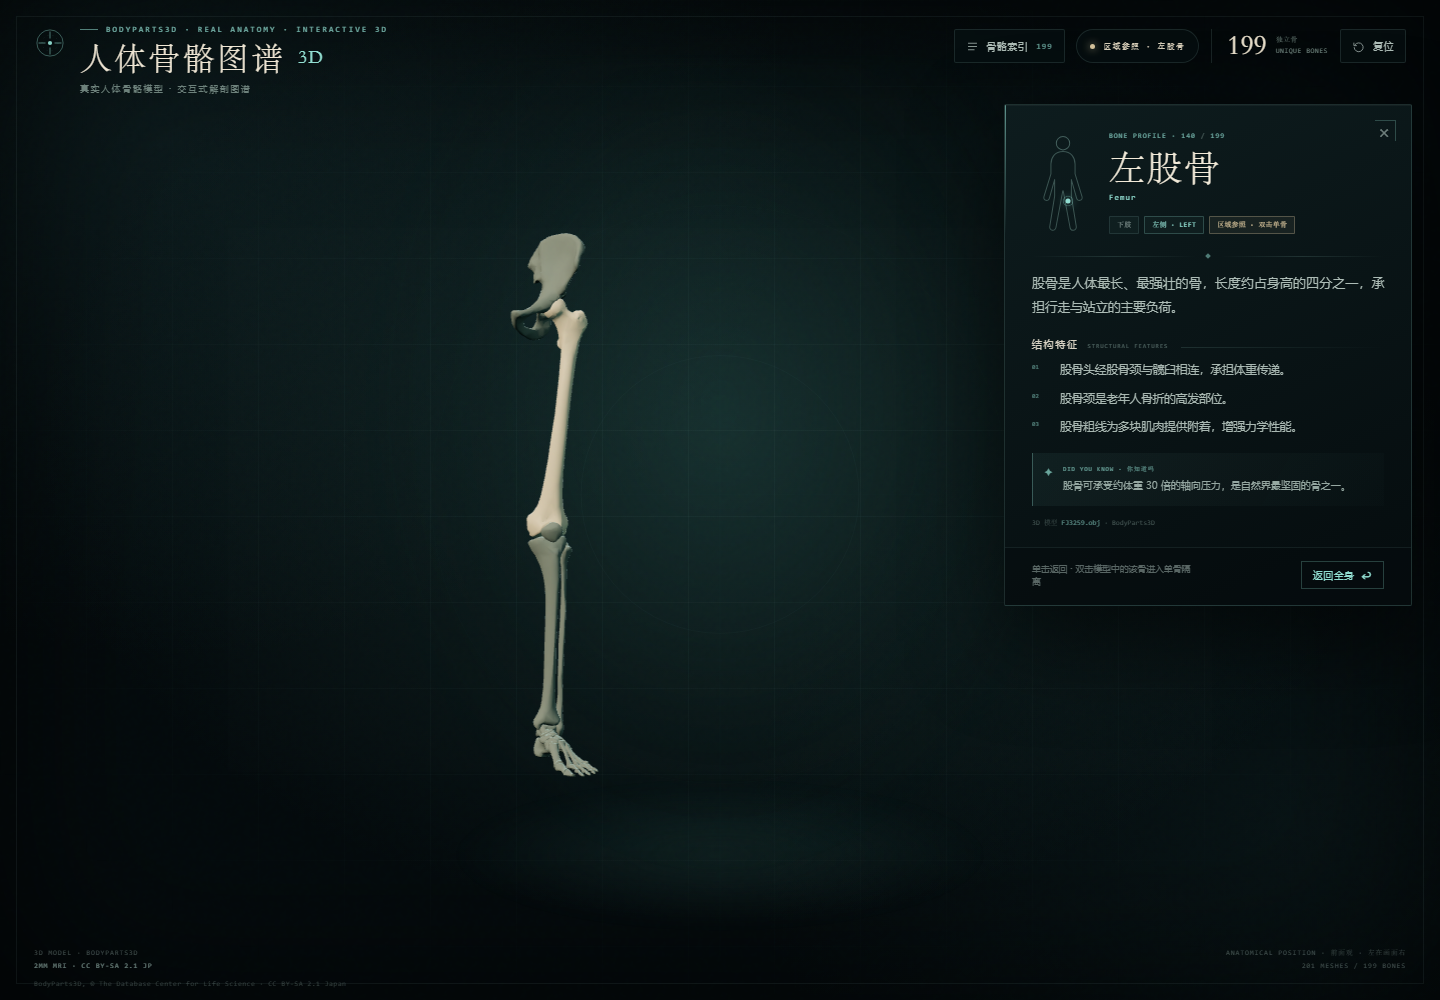
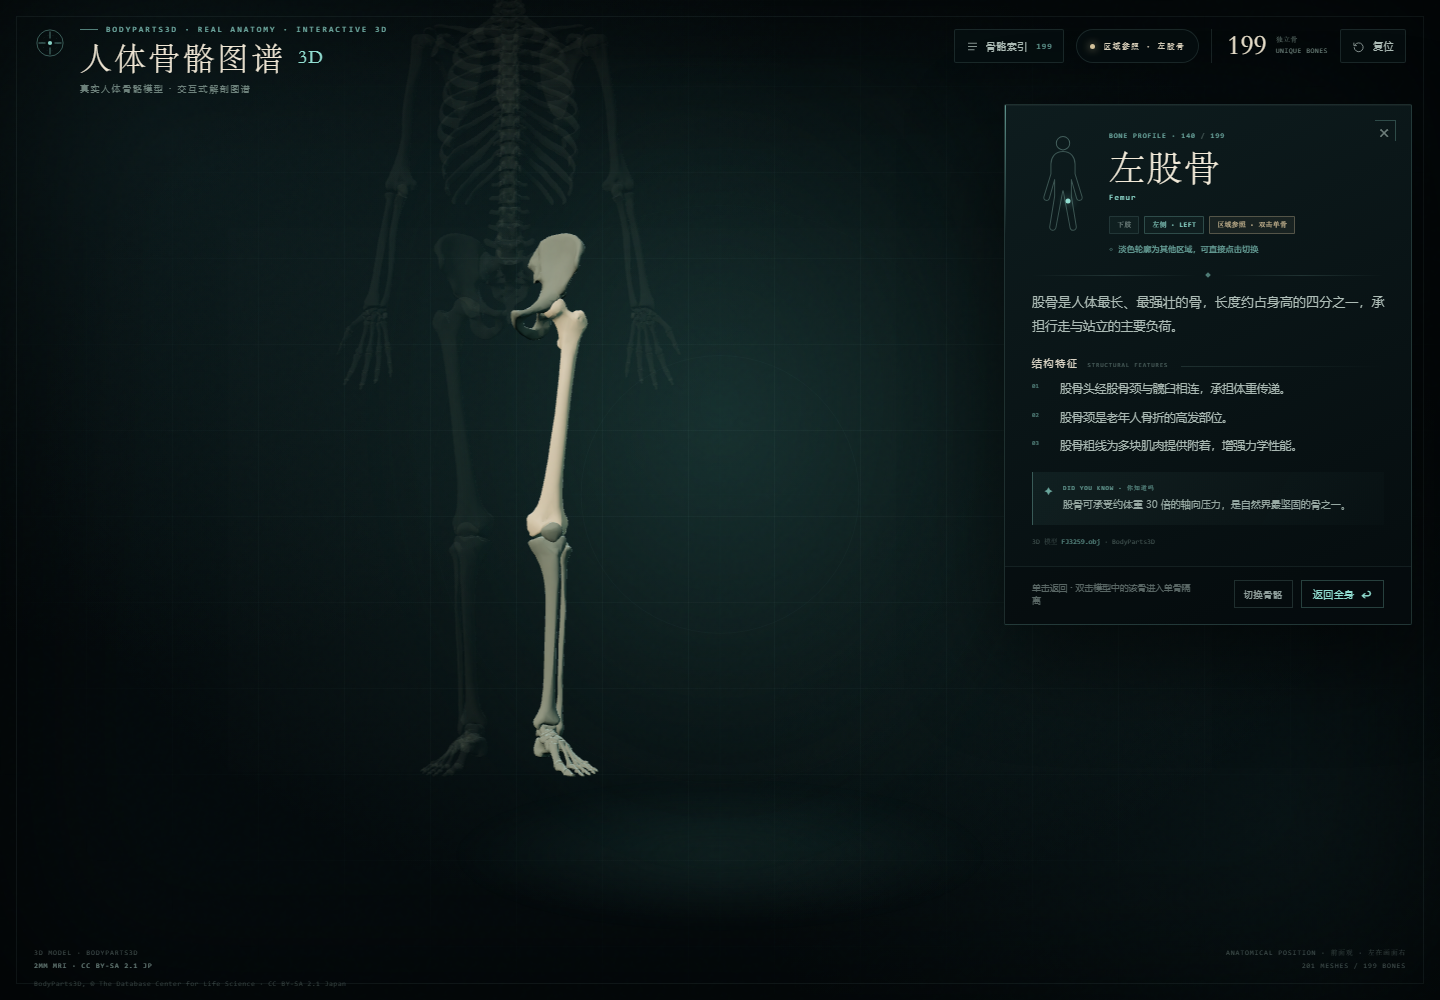
Improve region navigation and ghost context

diff --git a/js/app.js b/js/app.js
@@ -53,6 +53,8 @@
     boneSide: $("boneSide"),
     boneGroup: $("boneGroup"),
     boneIsolate: $("boneIsolate"),
+    modeHint: $("modeHint"),
+    switchBtn: $("switchBtn"),
     resetNote: $("resetNote"),
     boneDesc: $("boneDesc"),
     boneFeatures: $("boneFeatures"),
@@ -116,6 +118,7 @@
     down: null,
     warnedRotation: false,
     isolationMode: "none",
+    contextIds: new Set(),
     clickTimer: 0,
     pendingBoneClick: null,
     cameraKeys: new Set(),
@@ -257,7 +260,10 @@
   function openDrawer() {
     clearPendingClick();
     state.cameraKeys.clear();
-    if (state.selectedEntry) resetView({ closeDrawer: false });
+    if (state.selectedEntry) {
+      els.panel.inert = true;
+      els.panel.setAttribute("aria-hidden", "true");
+    }
     document.body.classList.add("drawer-open");
     els.indexDrawer.setAttribute("aria-hidden", "false");
     els.indexDrawer.inert = false;
@@ -277,6 +283,10 @@
     els.indexOpen.classList.remove("is-active");
     els.indexOpen.setAttribute("aria-expanded", "false");
     els.mobileIndex.setAttribute("aria-expanded", "false");
+    if (state.selectedEntry && document.body.classList.contains("panel-open")) {
+      els.panel.inert = false;
+      els.panel.setAttribute("aria-hidden", "false");
+    }
     if (focusToggle) {
       const target = window.innerWidth <= 860 ? els.mobileIndex : els.indexOpen;
       target.focus({ preventScroll: true });
@@ -285,6 +295,7 @@
 
   els.indexOpen.addEventListener("click", openDrawer);
   els.mobileIndex.addEventListener("click", openDrawer);
+  els.switchBtn.addEventListener("click", openDrawer);
   els.indexClose.addEventListener("click", () => closeDrawer());
   els.scrim.addEventListener("click", () => closeDrawer());
 
@@ -421,6 +432,7 @@
     isolated: new THREE.Color(0xc0a57c),
     single: new THREE.Color(0xa78a64),
     context: new THREE.Color(0x3b4a44),
+    ghost: new THREE.Color(0x33433d),
     dim: new THREE.Color(0x25312e)
   };
   const EMISSIVE = {
@@ -445,7 +457,22 @@
   function setMeshState(mesh, mode) {
     const mat = mesh.material;
     if (!mat) return;
-    if (mode === "dim") {
+
+    /* 每次切换先恢复不透明，避免 ghost 状态污染其他模式 */
+    mat.transparent = false;
+    mat.opacity = 1;
+    mat.depthWrite = true;
+
+    if (mode === "ghost") {
+      mat.color.copy(COLORS.ghost);
+      mat.emissive.setHex(0x000000);
+      mat.emissiveIntensity = 0;
+      mat.roughness = 0.98;
+      mat.metalness = 0;
+      mat.transparent = true;
+      mat.opacity = 0.1;
+      mat.depthWrite = false;
+    } else if (mode === "dim") {
       mat.color.copy(COLORS.dim);
       mat.emissive.setHex(EMISSIVE.dim);
       mat.emissiveIntensity = 0;
@@ -492,6 +519,7 @@
 
   function applyBaseMaterials() {
     state.isolationMode = "none";
+    state.contextIds.clear();
     state.meshes.forEach((mesh) => {
       mesh.visible = true;
       setMeshState(mesh, "base");
@@ -504,6 +532,7 @@
     state.isolationMode = mode;
     state.selectedSet = new Set(selected ? selected.meshes : []);
     const contextIds = new Set(contextEntries.map((entry) => entry.id));
+    state.contextIds = contextIds;
 
     state.meshes.forEach((mesh) => {
       if (state.selectedSet.has(mesh)) {
@@ -513,13 +542,13 @@
         /* 完全单骨隔离：只留下被点击的骨块 */
         mesh.visible = false;
       } else if (mode === "context") {
-        /* 区域参照：隐藏无关部位，保留同一解剖区域的暗色空间参照 */
+        /* 区域参照：本区域用暗色实体，其他区域保留为可点击的淡色轮廓 */
         const meshEntry = byId.get(mesh.userData.entryId);
+        mesh.visible = true;
         if (meshEntry && contextIds.has(meshEntry.id)) {
-          mesh.visible = true;
           setMeshState(mesh, "context");
         } else {
-          mesh.visible = false;
+          setMeshState(mesh, "ghost");
         }
       } else {
         mesh.visible = true;
@@ -756,7 +785,7 @@
     /* 用包围盒而不是包围球拟合，细长的股骨/肋骨才不会过度缩小 */
     const fitHeight = (size.y * 0.5 * viewportH) / (tan * Math.max(1, targetH));
     const fitWidth = (size.x * 0.5 * viewportW) / (tan * camera.aspect * Math.max(1, targetW));
-    let distance = clamp(Math.max(fitHeight, fitWidth) * 1.12, 8, 500);
+    let distance = clamp(Math.max(fitHeight, fitWidth) * 1.12, 8, mobile ? 800 : 500);
     if (mobile) distance = Math.max(8, distance * 0.78);
 
     let dir = viewDirOverride
@@ -954,6 +983,12 @@
     document.body.classList.toggle("single-isolated", mode === "single");
     document.body.classList.toggle("context-mode", mode === "context");
     els.boneIsolate.hidden = !isolated;
+    els.modeHint.hidden = mode !== "context";
+    if (mode === "context") {
+      els.modeHint.textContent = "淡色轮廓为其他区域，可直接点击切换";
+    } else {
+      els.modeHint.textContent = "";
+    }
 
     if (mode === "context") {
       els.boneIsolate.textContent = isSkull ? "头骨模式 · 双击单骨" : "区域参照 · 双击单骨";
@@ -998,6 +1033,8 @@
     hideTooltip();
     document.body.classList.remove("panel-open", "isolated", "single-isolated", "context-mode");
     els.boneIsolate.hidden = true;
+    els.modeHint.hidden = true;
+    els.modeHint.textContent = "";
     els.resetNote.textContent = "再次点击该骨骼，或按 Esc 返回全身视图";
     els.panel.setAttribute("aria-hidden", "true");
     els.panel.inert = true;
@@ -1041,10 +1078,21 @@
     raycaster.setFromCamera(pointerToNdc(clientX, clientY), camera);
     const hits = raycaster.intersectObjects(state.meshes, false);
     if (!hits.length) return null;
-    const mesh = hits[0].object;
+
+    let chosen = hits[0];
+    if (state.isolationMode === "context" && state.contextIds.size) {
+      /* 本区域骨骼优先于淡色其他区域，避免轮廓挡住参照区域的操作 */
+      const primary = hits.find((hit) => {
+        const entry = byId.get(hit.object.userData.entryId);
+        return entry && state.contextIds.has(entry.id);
+      });
+      if (primary) chosen = primary;
+    }
+
+    const mesh = chosen.object;
     const id = mesh.userData.entryId;
     const entry = byId.get(id);
-    return entry ? { entry, mesh, point: hits[0].point } : null;
+    return entry ? { entry, mesh, point: chosen.point } : null;
   }
 
   function clearHoverVisual() {

diff --git a/css/style.css b/css/style.css
@@ -116,6 +116,7 @@ h1 small{display:block;font-family:var(--sans);font-weight:400;font-size:8.5px;l
 /* ---------- drawer ---------- */
 .scrim{display:none;position:fixed;inset:0;z-index:22;background:rgba(2,7,8,.58);backdrop-filter:blur(2px);opacity:0;pointer-events:none;transition:opacity .35s}
 body.drawer-open .scrim{opacity:1;pointer-events:auto}
+body.drawer-open .panel{opacity:0;pointer-events:none}
 .index-drawer{
   position:fixed;z-index:24;left:28px;top:104px;bottom:84px;width:var(--drawer-w);
   display:flex;flex-direction:column;overflow:hidden;
@@ -217,6 +218,8 @@ body.panel-open .panel{opacity:1;transform:none;pointer-events:auto}
 .meta-chip{font-family:var(--mono);font-size:6.5px;letter-spacing:.1em;color:rgba(185,203,197,.74);border:1px solid rgba(150,205,195,.14);background:rgba(145,222,209,.035);padding:4px 7px;border-radius:1px;white-space:nowrap}
 .meta-chip.side{color:var(--teal);border-color:rgba(145,222,209,.24)}
 .meta-chip.isolate{color:#ead3a7;border-color:rgba(212,194,156,.32);background:rgba(212,194,156,.07)}
+.mode-hint{margin:9px 0 0;font-size:8px;line-height:1.55;letter-spacing:.03em;color:rgba(146,223,210,.72)}
+.mode-hint::before{content:"◇";margin-right:5px;font-size:7px;opacity:.7}
 body.isolated .orbits{opacity:.45}
 body.isolated .halo{opacity:.62}
 body.single-isolated .orbits{opacity:.22}
@@ -241,6 +244,9 @@ body.single-isolated .halo{opacity:.42}
 .model-line span{color:rgba(146,223,210,.55)}
 .panel-foot{flex:0 0 auto;display:flex;align-items:center;justify-content:space-between;gap:10px;padding:13px 27px 16px;border-top:1px solid rgba(150,205,195,.1);background:rgba(4,10,12,.4)}
 .reset-note{font-size:8.5px;letter-spacing:.04em;color:rgba(159,177,171,.55);line-height:1.55;max-width:160px}
+.panel-actions{display:flex;align-items:center;gap:8px;margin-left:auto}
+.switch-btn{all:unset;cursor:pointer;font-size:9px;letter-spacing:.08em;color:rgba(185,203,197,.78);border:1px solid rgba(150,205,195,.18);padding:7px 9px;transition:background .25s,border-color .25s,color .25s;white-space:nowrap}
+.switch-btn:hover,.switch-btn:focus-visible{background:rgba(145,222,209,.08);border-color:rgba(145,222,209,.38);color:#cefff6}
 .back-btn{all:unset;cursor:pointer;display:flex;align-items:center;gap:7px;font-size:9.5px;letter-spacing:.1em;color:var(--teal);border:1px solid rgba(145,222,209,.25);padding:7px 11px;transition:background .25s,border-color .25s,color .25s;white-space:nowrap}
 .back-btn:hover,.back-btn:focus-visible{background:rgba(145,222,209,.1);border-color:rgba(145,222,209,.48);color:#cefff6}
 .back-btn span{font-size:11px;line-height:1}
@@ -373,7 +379,9 @@ body.single-isolated .halo{opacity:.42}
   .fact p{font-size:9.5px;line-height:1.6}
   .panel-foot{padding:10px 20px 12px}
   .reset-note{display:none}
-  .back-btn{margin-left:auto}
+  .panel-actions{margin-left:auto;gap:6px}
+  .switch-btn{font-size:8.5px;padding:6px 8px}
+  .back-btn{padding:6px 9px}
   .hint{bottom:20px;font-size:9px;height:33px;padding:0 13px;max-width:calc(100vw - 130px);overflow:hidden}
   .hint kbd{display:none}
   .hint span:nth-child(2){white-space:nowrap;overflow:hidden;text-overflow:ellipsis}

diff --git a/index.html b/index.html
@@ -110,6 +110,7 @@
             <span class="meta-chip" id="boneGroup">股骨</span>
             <span class="meta-chip isolate" id="boneIsolate" hidden>区域参照 · 双击单骨</span>
           </div>
+          <p class="mode-hint" id="modeHint" hidden></p>
         </div>
       </div>
       <div class="divider"><i></i></div>
@@ -124,7 +125,10 @@
     </div>
     <div class="panel-foot">
       <span class="reset-note" id="resetNote">再次点击该骨骼，或按 Esc 返回全身视图</span>
-      <button class="back-btn" id="backBtn" type="button">返回全身 <span>↩</span></button>
+      <div class="panel-actions">
+        <button class="switch-btn" id="switchBtn" type="button" title="打开骨骼索引，直接切换到其他骨骼">切换骨骼</button>
+        <button class="back-btn" id="backBtn" type="button">返回全身 <span>↩</span></button>
+      </div>
     </div>
   </aside>
 

diff --git a/简介与使用说明.md b/简介与使用说明.md
@@ -4,7 +4,7 @@
 
 **人体骨骼图谱 3D** 是一个面向解剖学习、科普展示和自主观察的交互式网页程序。它以 **BodyParts3D / Anatomography** 真实人体 MRI 重建数据为基础，将 **201 个骨骼模型部件** 压缩内嵌到网页中，无需安装软件、无需本地服务器，双击 `index.html` 即可在浏览器中打开。
 
-程序把全身骨骼做成可旋转、可缩放、可检索的三维模型。单击骨骼可进入“区域参照”，只保留同一解剖区域的骨骼作为定位参照；双击骨骼则进入“完全单骨隔离”，只显示当前骨块，适合观察单块骨的形态。方向键可以平移虚拟摄像机，方便沿股骨、胫骨等长骨逐段观察。
+程序把全身骨骼做成可旋转、可缩放、可检索的三维模型。单击骨骼可进入“区域参照”：本区域以暗色实体显示，其他区域保留为淡色轮廓，可直接点击切换到其他区域；双击骨骼则进入“完全单骨隔离”，只显示当前骨块，适合观察单块骨的形态。方向键可以平移虚拟摄像机，方便沿股骨、胫骨等长骨逐段观察。
 
 > 一句话简介：一个基于真实人体数据的、可直接在浏览器中打开的交互式 3D 骨骼图谱。
 
@@ -12,7 +12,7 @@
 
 - **真实模型**：BodyParts3D 真实人体 MRI 重建，201 个骨骼模型部件；
 - **直接打开**：所有模型已内嵌，双击 `index.html` 即可运行，不需要服务器；
-- **区域参照**：单击骨骼后只保留相关区域，其他部位隐藏，选中骨高亮；
+- **区域参照**：单击骨骼后本区域为暗色实体，其他区域为淡色轮廓，可直接点击切换，选中骨高亮；
 - **单骨隔离**：双击任意骨骼，只显示该骨；
 - **长骨观察**：方向键平移镜头，移动速度随缩放距离自动调整；
 - **快速检索**：199 条骨骼索引，支持中文名、英文名、分区筛选和深链接；
@@ -65,9 +65,10 @@
 
 ### 2. 选择骨骼
 
-- **单击骨骼**：进入 **区域参照模式**。程序会隐藏无关身体部位，只保留同一区域的骨骼作为暗色参照，并把点击的骨块高亮。
-  - 例如单击左股骨：保留左髋骨、左股骨、左髌骨、左胫骨、左腓骨和左脚；
-  - 例如单击胸骨：保留胸廓和胸骨。
+- **单击骨骼**：进入 **区域参照模式**。本区域的骨骼以暗色实体显示，其他区域以淡色轮廓保留；点击淡色骨骼即可直接切换到那个区域，不必回到全身。
+  - 例如单击左股骨：左髋骨、左股骨、左髌骨、左胫骨、左腓骨和左脚为暗色参照，其余骨骼为淡色轮廓；
+  - 例如单击胸骨：胸廓和胸骨为暗色参照。
+- **切换其他区域**：直接点击淡色轮廓，或点击面板底部的 **“切换骨骼”** 打开索引；选中其他骨骼后会直接进入新区域，不会先回到全身。
 - **双击骨骼**：进入 **完全单骨隔离**，只显示被双击的那一块骨。
 - **再次单击同一骨骼 / 按 `Esc`**：回到全身视图。
 
@@ -88,6 +89,7 @@
 
 - 点击左侧“骨骼索引”，输入中文名或英文名搜索；
 - 按 **`/`** 快速打开索引并聚焦搜索框；
+- 区域参照中打开索引不会重置视角，点击任意条目会直接切换到新区域；
 - 点击索引条目可直接定位到对应骨骼；
 - 支持深链接，例如 `index.html#FJ3259`（左股骨）。
 
@@ -114,7 +116,7 @@
 | 模式 | 进入方式 | 显示内容 |
 |---|---|---|
 | 全身视图 | 初始状态 / 复位 | 全部 201 个模型部件 |
-| 区域参照 | 单击骨骼 | 只保留同一解剖区域的骨骼，选中骨高亮 |
+| 区域参照 | 单击骨骼 | 本区域为暗色实体，其他区域为淡色可点击轮廓，选中骨高亮 |
 | 单骨隔离 | 双击骨骼 | 只显示当前 1 个骨块 |
 
 ![单骨隔离：下颌骨](preview-3d-skull-single.png)

diff --git a/README.md b/README.md
@@ -8,11 +8,11 @@
 
 ![全身 3D 骨骼视图](preview-3d-home.png)
 
-![区域参照：左股骨、同侧下肢与足部](preview-3d-femur.png)
+![区域参照：左股骨、同侧下肢与足部；淡色为其他区域](preview-3d-femur.png)
 
-![区域参照：胸骨与胸廓](preview-3d-sternum.png)
+![区域参照：胸骨与胸廓；淡色为其他区域](preview-3d-sternum.png)
 
-![头骨模式：隐藏身体骨骼，高亮额骨](preview-3d-skull.png)
+![头骨模式：头骨参照，高亮额骨；淡色为其他区域](preview-3d-skull.png)
 
 ![单骨隔离：双击下颌骨后只显示该骨](preview-3d-skull-single.png)
 
@@ -66,14 +66,15 @@
 | 左键拖拽 | 旋转 3D 模型 |
 | 右键拖拽 / Shift + 拖拽 | 平移视角 |
 | 滚轮 / 双指捏合 | 缩放 |
-| 单击任意骨骼 | **区域参照模式**：隐藏无关身体部位，保留同一解剖区域的暗色骨骼作为空间参照，点击的骨块高亮 |
+| 单击任意骨骼 | **区域参照模式**：本区域显示为暗色实体，其他区域保留为淡色可点击轮廓，点击的骨块高亮 |
 | 双击任意骨骼 | **单骨隔离**：只显示被双击的那一块骨，其余 200 个模型部件全部隐藏 |
+| 面板“切换骨骼” | 打开骨骼索引，直接切换到其他区域，不返回全身视图 |
 | 方向键 `↑` `↓` `←` `→` | 平移虚拟摄像机与观察目标，可沿长骨上下左右移动视角；移动速度随镜头距离自动缩放 |
 | 单骨隔离后再次单击 / 按 `Esc` | 恢复全身视图 |
 | 再次单击同一骨骼 | 返回全身视图 |
 | 点击空白区域 / 关闭按钮 / “返回全身” | 返回全身视图 |
 | 悬停骨骼 | 高亮并显示名称提示 |
-| 左侧“骨骼索引” | 搜索或按分区浏览全部 199 个骨骼条目 |
+| 左侧“骨骼索引” | 搜索或按分区浏览全部 199 个骨骼条目；区域参照中打开索引不会重置视角 |
 | 按 `[` / `]` | 切换上一块 / 下一块骨 |
 | 按 `/` | 打开骨骼索引并聚焦搜索框 |
 | 深链接 | 例如 `index.html#FJ3259`（左股骨）、`index.html#sternum`（胸骨） |
@@ -86,7 +87,7 @@
 
 ## 区域参照的范围
 
-单击骨骼时，程序会根据解剖部位保留最相关的局部骨骼：
+单击骨骼时，程序会根据解剖部位保留最相关的局部骨骼；其他区域以淡色轮廓显示，可直接点击切换。也可以使用面板底部的“切换骨骼”打开索引，选中其他骨骼后直接进入新区域：
 
 | 点击部位 | 保留的参照骨骼 |
 |---|---|
@@ -105,7 +106,7 @@
 
 - 不再使用手绘 SVG，替换为 **BodyParts3D 真实 3D 骨骼模型**。
 - 增加 **镜头聚焦、再次点击复位、点击空白复位、Esc 复位**。
-- 全身统一为 **区域参照** 模式：只保留同一解剖区域的暗色参照，其余骨骼隐藏。
+- 全身统一为 **区域参照** 模式：本区域为暗色实体，其他区域为淡色可点击轮廓，可直接切换而无需回到全身。
 - **双击任意骨骼** 可进入 **完全单骨隔离**，适合观察单块骨的形态与特征。
 - **方向键平移摄像机**：上下左右移动观察位置，速度随镜头距离自动缩放，便于逐段观察股骨、胫骨等长骨。
 - 重做界面：深色解剖图谱视觉、暖白骨骼材质、冷暖轮廓光。
@@ -167,11 +168,6 @@ skeleton-3d/
 └── README.md
 ```
 
-## 感谢部分
-
--人体数据源于https://jixiangying.github.io/skeleton/
-
--作品在调教大肥鱼的时候顺手而作，难免会有不恰当的地方，欢迎大家批评指正
 ## 已知限制
 
 - 模型来自 2 mm MRI 重建，细小骨与听小骨不完整；缺少尾骨。
